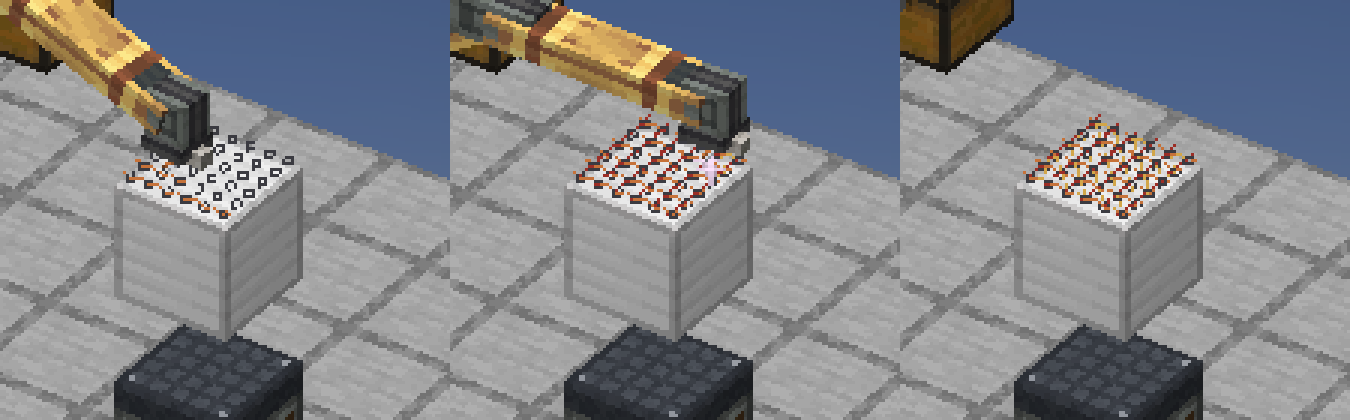
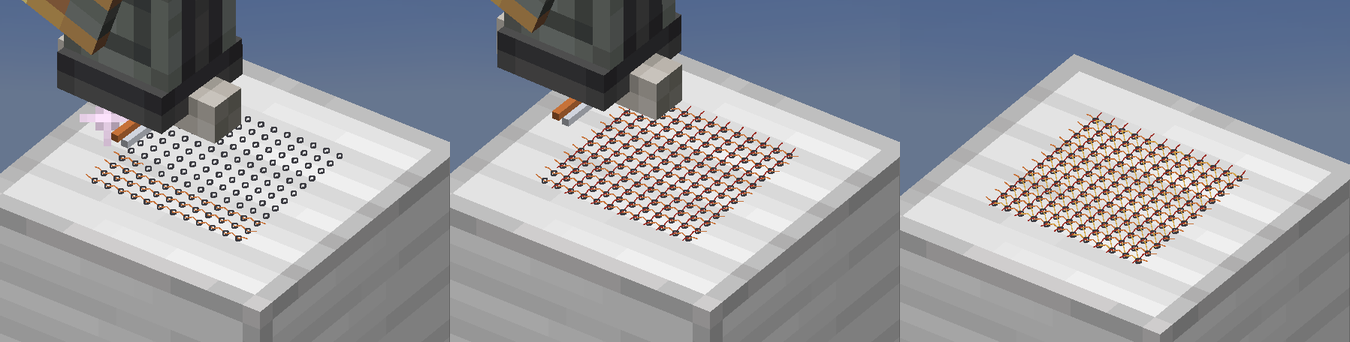
Industrial arm: core memory plane a quarter of the face, dust-sized cores, thin wires
12 x 12 cores of radius 0.007 on the middle half-block square of the top face,
wires 0.0025 thick.

diff --git a/src/main/java/net/createplant/arm/Trajectory.java b/src/main/java/net/createplant/arm/Trajectory.java
@@ -14,12 +14,14 @@ import net.minecraft.world.phys.Vec3;
  * core-memory grid uses more than one ({@link #CORES}, {@link #X_WIRE}, {@link #Y_WIRE}, {@link #SENSE}).
  */
 public final class Trajectory {
-    public static final int GRID = 6;
+    /** Cores per side of the memory plane, which covers the middle quarter of the cell's top face (half a block square). */
+    public static final int GRID = 12;
+    public static final double PLANE_MIN = .25, PLANE_MAX = .75;
     public static final double MARGIN = .08, LIFT = .03;
     /** Kinds of the grid's strokes: setting the ferrite cores row by row, then threading the X, Y and sense wires through them. */
     public static final int CORES = 0, X_WIRE = 1, Y_WIRE = 2, SENSE = 3;
-    /** Height of the cores' centres over the cell, where the wires pass through them, and how far the head lifts between cores. */
-    public static final double CORE_Y = 1.07, BETWEEN_Y = 1.105, SET_Y = 1.14;
+    /** Height of the cores' centres over the cell, where the wires pass through them, how far the head lifts between cores, and where it sets them. */
+    public static final double CORE_Y = 1.012, BETWEEN_Y = 1.022, SET_Y = 1.04;
     private static final Map<Long, Trajectory> CACHE = new ConcurrentHashMap<>();
 
     public final Vec3[] points;
@@ -109,7 +111,7 @@ public final class Trajectory {
 
     /** Position of grid line {@code i} across the face. */
     public static double gridAt(int i) {
-        return MARGIN + i * (1 - 2 * MARGIN) / (GRID - 1);
+        return PLANE_MIN + i * (PLANE_MAX - PLANE_MIN) / (GRID - 1);
     }
 
     /**
@@ -133,11 +135,11 @@ public final class Trajectory {
                 for (int k = 0; k < GRID; k++) {
                     int along = fwd ? k : n - k;
                     // X and Y wires cross inside each core, one just under the other
-                    double y = CORE_Y + (dir == 0 ? -.008 : .008);
+                    double y = CORE_Y + (dir == 0 ? -.002 : .002);
                     cores.add(dir == 0 ? new Vec3(gridAt(along), y, gridAt(line)) : new Vec3(gridAt(line), y, gridAt(along)));
                 }
-                Vec3 lead = cores.get(0).add(cores.get(0).subtract(cores.get(1)).normalize().scale(MARGIN * .8));
-                Vec3 tail = cores.get(n).add(cores.get(n).subtract(cores.get(n - 1)).normalize().scale(MARGIN * .8));
+                Vec3 lead = cores.get(0).add(cores.get(0).subtract(cores.get(1)).normalize().scale(.03));
+                Vec3 tail = cores.get(n).add(cores.get(n).subtract(cores.get(n - 1)).normalize().scale(.03));
                 hop(p, s, new Vec3(lead.x, BETWEEN_Y, lead.z));
                 thread(p, s, cores, dir == 0 ? X_WIRE : Y_WIRE);
                 p.add(new Vec3(tail.x, BETWEEN_Y, tail.z));

diff --git a/src/main/java/net/createplant/client/AssemblyJigRenderer.java b/src/main/java/net/createplant/client/AssemblyJigRenderer.java
@@ -127,7 +127,7 @@ public class AssemblyJigRenderer implements BlockEntityRenderer<AssemblyJigBlock
         pieces(t, p, 1, (a, b, behind, kind) -> {
             if (kind == Trajectory.CORES) return; // the head only sets cores on this pass
             int color = kind == Trajectory.X_WIRE ? COPPER : kind == Trajectory.Y_WIRE ? ENAMEL : GOLD;
-            ArmDraw.bar(q, pose, o.add(a), o.add(b), .012, .012, color, 255, light);
+            ArmDraw.bar(q, pose, o.add(a), o.add(b), .0025, .0025, color, 255, light);
         });
         // each core appears once the head has passed over its place on the setting pass
         for (int j = 0; j < Trajectory.GRID; j++) {
@@ -144,10 +144,10 @@ public class AssemblyJigRenderer implements BlockEntityRenderer<AssemblyJigBlock
 
     /** A ferrite core standing on edge, its hole along {@link Trajectory#CORE_AXIS}, so the wires visibly pass through it. */
     private static void ring(VertexConsumer q, PoseStack.Pose pose, int light, Vec3 c) {
-        double r = .03;
+        double r = .007; // dust-sized, like real cores
         Vec3 u = new Vec3(0, 1, 0).cross(Trajectory.CORE_AXIS).normalize().scale(r), v = new Vec3(0, r, 0);
         Vec3[] k = {u.add(v), u.reverse().add(v), u.reverse().subtract(v), u.subtract(v)};
-        for (int i = 0; i < 4; i++) ArmDraw.bar(q, pose, c.add(k[i]), c.add(k[(i + 1) % 4]), .014, .016, FERRITE, 255, light);
+        for (int i = 0; i < 4; i++) ArmDraw.bar(q, pose, c.add(k[i]), c.add(k[(i + 1) % 4]), .003, .004, FERRITE, 255, light);
     }
 
     private static void spray(VertexConsumer q, PoseStack.Pose pose, int light, Vec3 o, Trajectory t, float p, boolean live, float time, int color) {

diff --git a/src/main/java/net/createplant/gametest/ArmAssemblyGameTests.java b/src/main/java/net/createplant/gametest/ArmAssemblyGameTests.java
@@ -157,7 +157,7 @@ public class ArmAssemblyGameTests {
                 for (int j = 0; j < g; j++) {
                     Vec3 core = new Vec3(net.createplant.arm.Trajectory.gridAt(i), net.createplant.arm.Trajectory.CORE_Y, net.createplant.arm.Trajectory.gridAt(j));
                     int through = 0;
-                    for (int s = 0; s < t.segments(); s++) if (t.kind[s] == kind && t.points[s + 1].distanceTo(core) < .01) through++;
+                    for (int s = 0; s < t.segments(); s++) if (t.kind[s] == kind && t.points[s + 1].distanceTo(core) < .004) through++;
                     h.assertTrue(through == 1, "wire kind " + kind + " passes core " + i + "," + j + " exactly once, not " + through + " times");
                 }
         h.succeed();

diff --git a/docs/reports/industrial-arm-2026-11-25.md b/docs/reports/industrial-arm-2026-11-25.md
@@ -62,3 +62,7 @@
 ## 修正（コアメモリを編む動き）
 
 以前の配線は格子の上に直線を重ねて描き、交点の上に輪を載せるだけで、線がコアを通っていなかった。`Trajectory.grid` を作り直し、コアを置く工程→X線→Y線→センス線（対角線ジグザグ）の順にし、ヘッドがコアごとに輪の中心まで沈み間で持ち上がるようにした。軌道の各区間に種類（`Trajectory.kind`）を持たせ、描画はそれで色分けする。コアは45°傾けて立て、穴をX・Y・対角線のすべてが通る向きにした。作業時間は従来どおり120 tick（GameTestの時間に合わせたまま）。Ponderの最後に1マスの配線場面を追加（`docs/quality/industrial-arm/core-wiring.png`）。GameTest 12件成功。
+
+## 修正（コアメモリの大きさ）
+
+配線面を上面中央の4分の1（0.5×0.5マス）にし、コアを半径0.007マスのほこりほどの大きさ、線を0.0025マスの太さにした。小さくなった分、コアを12×12に増やした。
